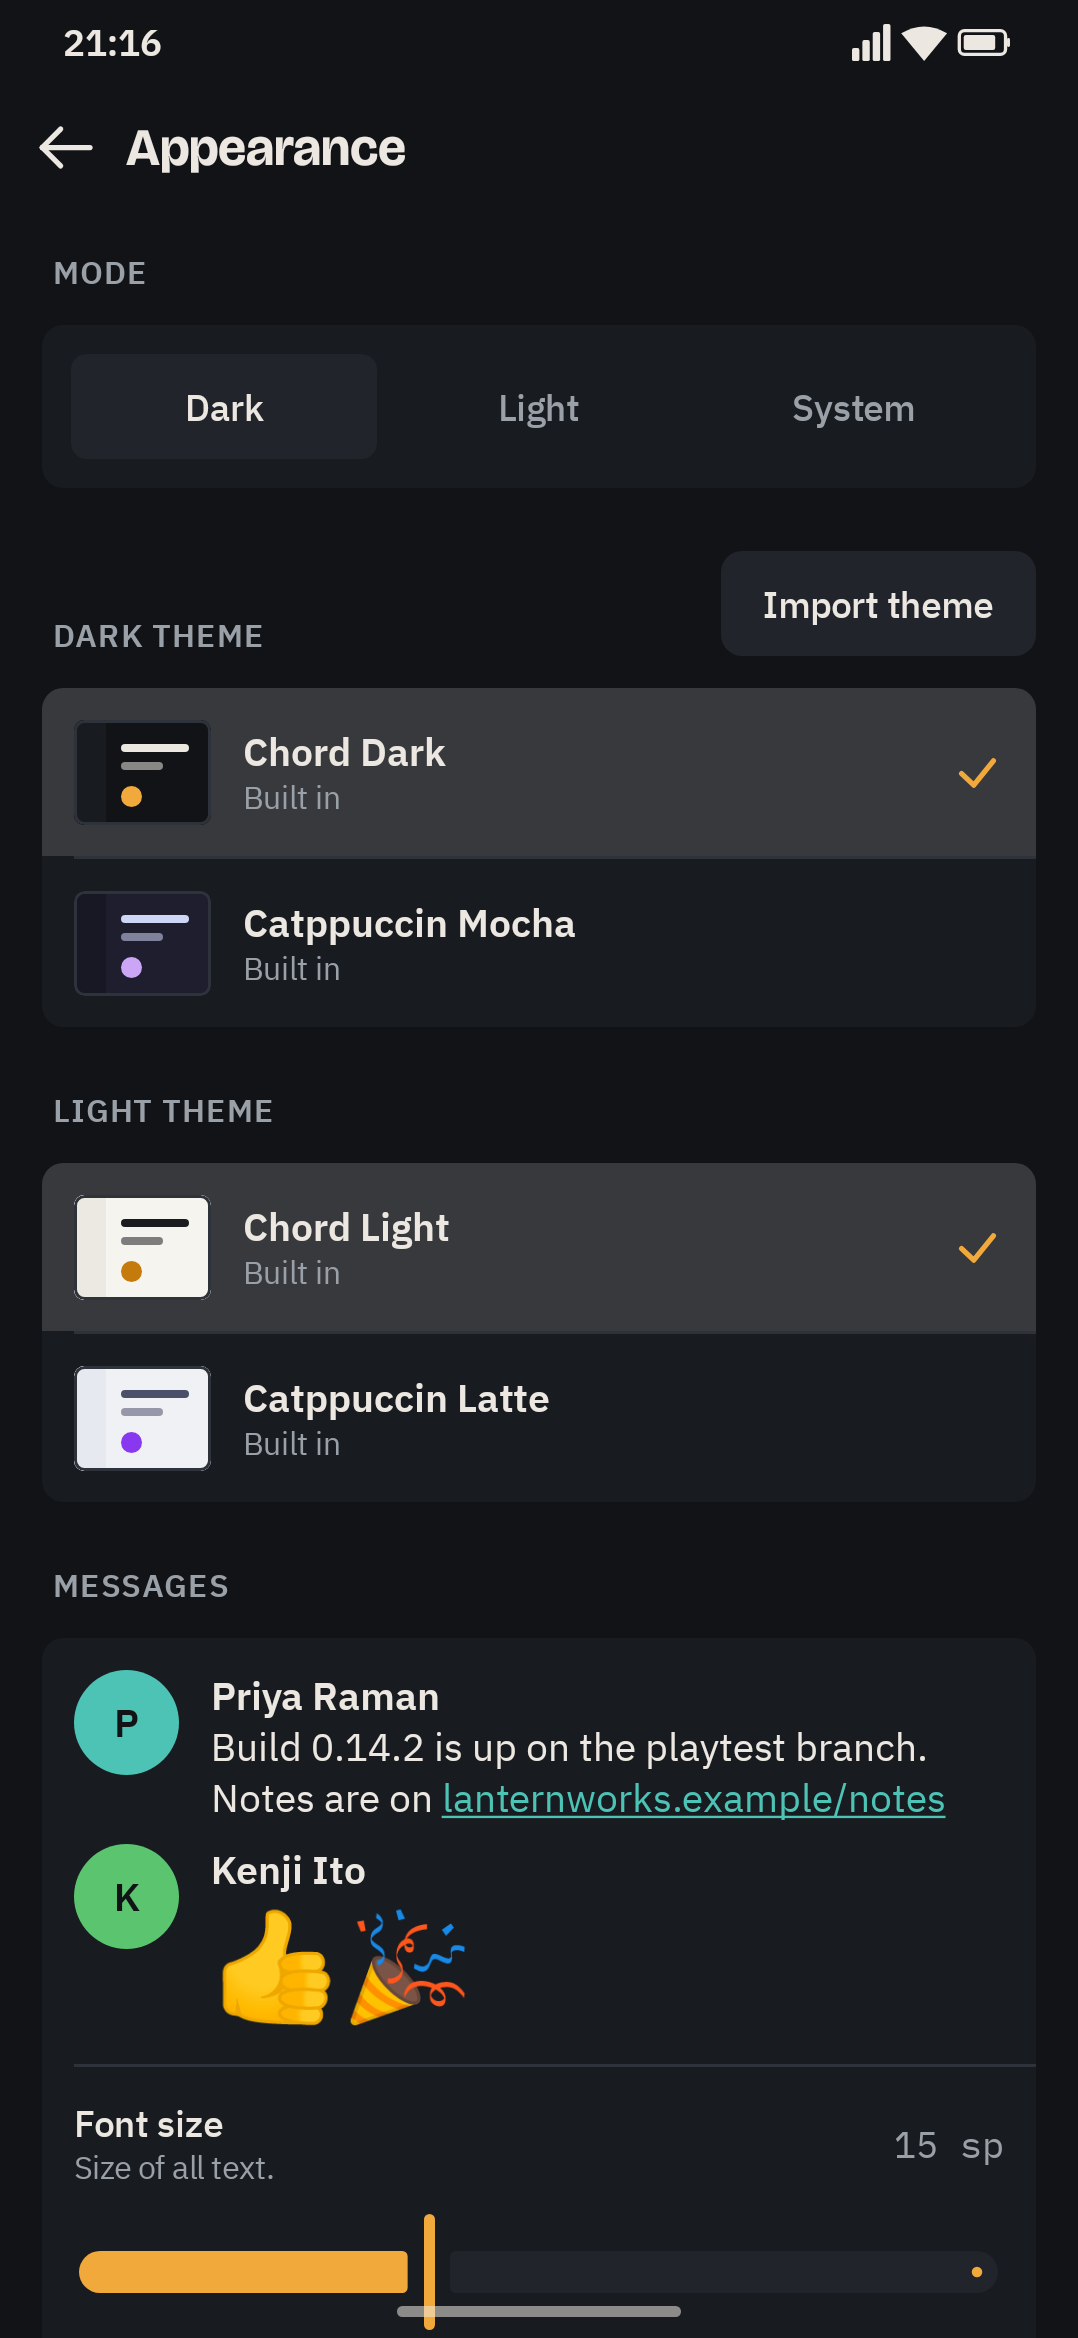
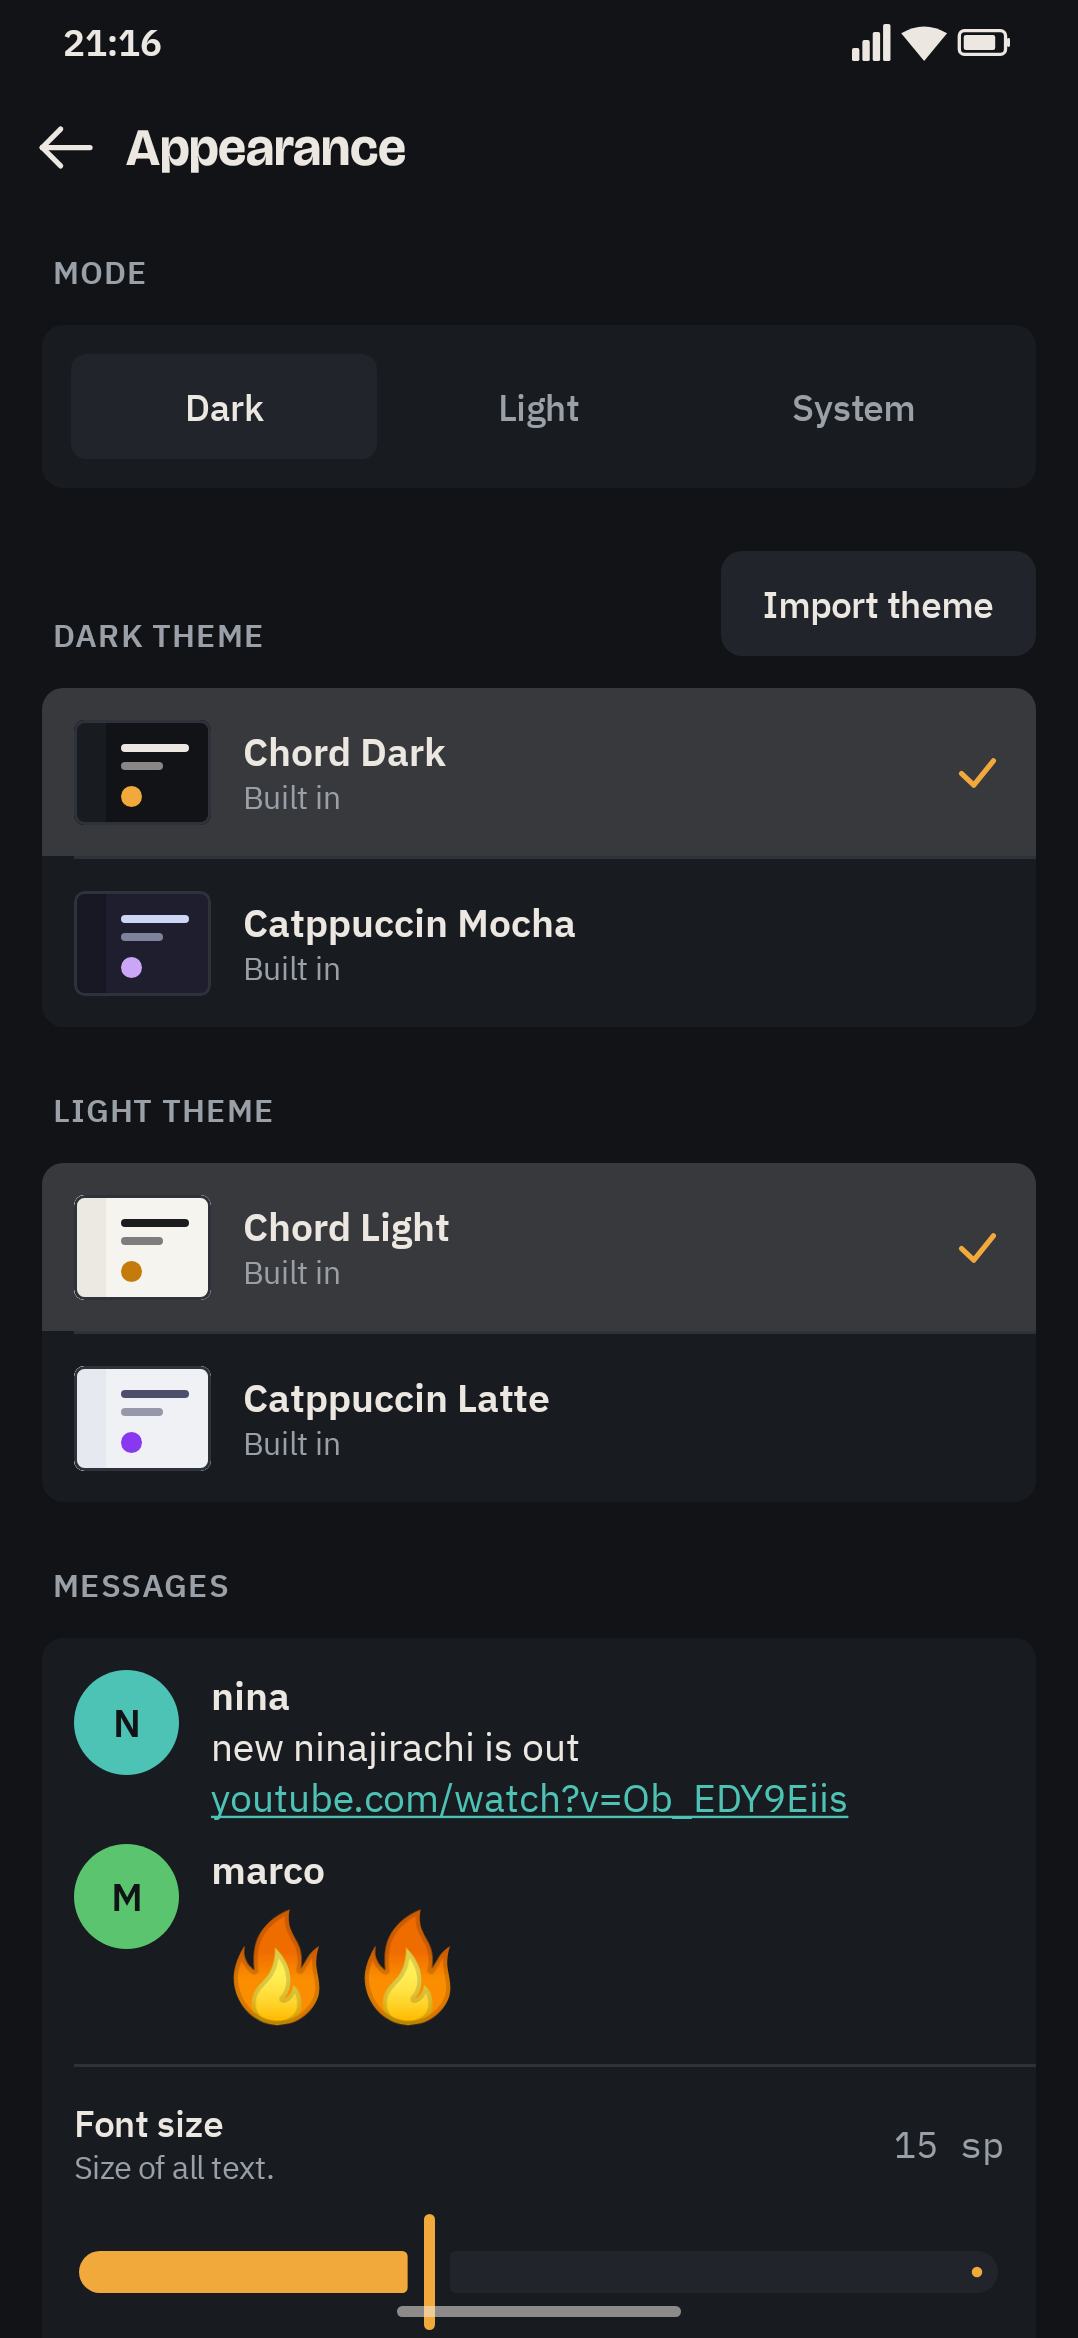
Match the Android Appearance sample to the friend group story
nina's message with the YouTube link and marco's two fire emoji, as on the desktop.

Changed region(s): [[0.1837, 0.7181, 0.8878, 0.8743]]

diff --git a/chord-android/app/src/main/kotlin/space/foid/chord/ui/settings/AppearancePage.kt b/chord-android/app/src/main/kotlin/space/foid/chord/ui/settings/AppearancePage.kt
@@ -442,7 +442,7 @@ internal fun CheckMark(color: Color, modifier: Modifier = Modifier) {
 private fun MessagePreview() {
     val c = Chord.colors
     Column(Modifier.fillMaxWidth().padding(ChordSpace.s3), verticalArrangement = Arrangement.spacedBy(ChordSpace.s2)) {
-        PreviewRow("P", c.accent, stringResource(R.string.appearance_preview_name_1)) {
+        PreviewRow("N", c.accent, stringResource(R.string.appearance_preview_name_1)) {
             Text(stringResource(R.string.appearance_preview_text), style = ChordType.body, color = c.ink)
             val link = stringResource(R.string.appearance_preview_link)
             val underline = space.foid.chord.ui.theme.LocalAppearance.current.underlineLinks
@@ -450,10 +450,10 @@ private fun MessagePreview() {
                 buildLinkText(link, c.accent, underline), style = ChordType.body, color = c.ink,
             )
         }
-        PreviewRow("K", c.online, stringResource(R.string.appearance_preview_name_2)) {
+        PreviewRow("M", c.online, stringResource(R.string.appearance_preview_name_2)) {
             val jumbo = space.foid.chord.ui.theme.LocalAppearance.current.jumboEmoji
             EmojiText(
-                AnnotatedString("👍🎉"),
+                AnnotatedString("🔥🔥"),
                 if (jumbo) ChordType.body.copy(fontSize = androidx.compose.ui.unit.TextUnit(40f, androidx.compose.ui.unit.TextUnitType.Sp), lineHeight = androidx.compose.ui.unit.TextUnit(48f, androidx.compose.ui.unit.TextUnitType.Sp)) else ChordType.body,
                 c.ink,
             )
@@ -462,7 +462,7 @@ private fun MessagePreview() {
 }
 
 private fun buildLinkText(text: String, color: Color, underline: Boolean): AnnotatedString {
-    // The link is the last word of the sample. A translation may move it, so find it by shape.
+    // The link is the last word of the sample (or the whole line). A translation may move it.
     val i = text.lastIndexOf(' ') + 1
     val link = text.substring(i)
     return androidx.compose.ui.text.buildAnnotatedString {
